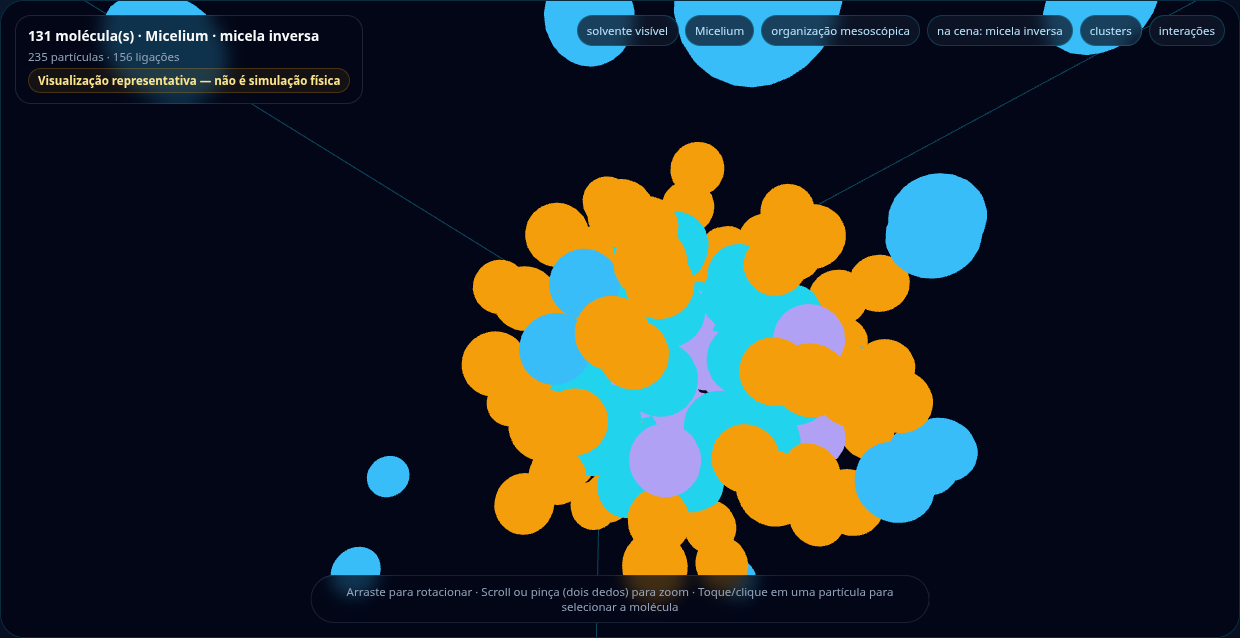
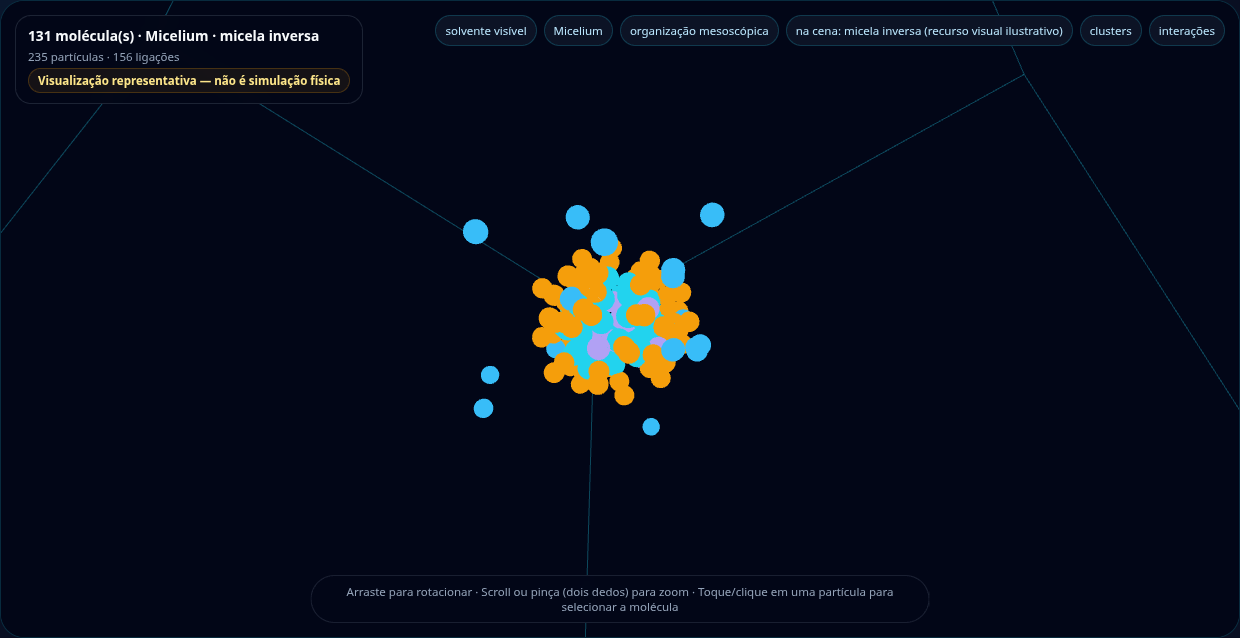
docs: exemplos documentados — rodada final, validação em vários trechos e capturas
Capturas com enquadramento automático, trilhas do card, cortes refeitos
(CTAB, vesícula, AOT) e captura do CTAB com zoom. Suítes: backend 2040,
frontend 87, host 28. Cinco morfologias estáveis em 8 trechos; CTAB e
vesícula passam com ressalvas (molde ilustrativo, escala reduzida, salicilato
cobrindo o bastão na vista padrão). Limitações atualizadas.

diff --git a/documentacao/validacao/WEB_LITE_V1.md b/documentacao/validacao/WEB_LITE_V1.md
@@ -245,16 +245,16 @@ Natureza de cada condição: **experimental** (medida no estudo), **protocolo** 
 
 | Suíte | Resultado |
 |---|---|
-| Backend completo (`bash scripts/testar_backend.sh`, rodado em 4 partes para caber no tempo do terminal) | **2033 aprovados**, 28 pulados, 1 falha esperada (xfail) — ver nota |
-| Só os exemplos (`tests/test_exemplos_*.py`) | 107 aprovados (66 + 22 de geometria + 19 de estabilidade e forma medida) |
-| Frontend (`bash scripts/testar_frontend.sh`) | **82 aprovados**, build sem erro |
+| Backend completo (`bash scripts/testar_backend.sh`, rodado em 4 partes para caber no tempo do terminal) | **2040 aprovados**, 28 pulados, 1 falha esperada (xfail) |
+| Só os exemplos (`tests/test_exemplos_*.py`) | 114 aprovados (66 + 22 de geometria + 26 de estabilidade e forma medida) |
+| Frontend (`bash scripts/testar_frontend.sh`) | **87 aprovados**, build sem erro |
 | Host (segredos, `.env`, produção) | **28 aprovados** |
 
-**Nota sobre o tempo:** numa das execuções, `test_tempo_por_trecho[dppc_bicamada_hidratacao]` falhou com 16,16 s (limite 15 s). A carga média da máquina era 5,8, com um Chrome aberto pedindo trechos ao mesmo backend. Todos os exemplos ficaram mais lentos ao mesmo tempo. Repetido logo depois, passou com 12,50 s, e o código desse caminho não mudou entre as execuções. Em máquina carregada, a bicamada pode passar do limite.
+**Nota sobre o tempo (rodada anterior):** numa das execuções, `test_tempo_por_trecho[dppc_bicamada_hidratacao]` falhou com 16,16 s (limite 15 s). A carga média da máquina era 5,8, com um Chrome aberto pedindo trechos ao mesmo backend. Todos os exemplos ficaram mais lentos ao mesmo tempo. Repetido logo depois, passou com 12,50 s, e o código desse caminho não mudou entre as execuções. Em máquina carregada, a bicamada pode passar do limite.
 
 Os testes de geometria medem as coordenadas do backend depois de 3 trechos, sem usar a previsão:
 - **SDS:** cabeças para fora.
-- **CTAB:** cabeças longe do maior eixo, salicilato na interface, agregado mais alongado que a esfera do SDS. Ser mais alongado que o SDS não basta para confirmar um cilindro (ver 13.4).
+- **CTAB:** cabeças longe do maior eixo, salicilato na interface, agregado mais alongado que a esfera do SDS.
 - **Bicamada DPPC:** ≥ 70 % das cabeças nas duas faces, com caudas no meio. Medido: 100 % em 1, 3 e 5 trechos.
 - **Vesícula DPPC:** cabeças internas < caudas < cabeças externas.
 - **AOT:** cabeças para dentro, água no centro.
@@ -262,8 +262,12 @@ Os testes de geometria medem as coordenadas do backend depois de 3 trechos, sem 
 
 Testes de estabilidade e de forma medida (`tests/test_exemplos_estabilidade.py`):
 - **AOT, 6 trechos seguidos:** em cada trecho, fração organizada > 50 % e rótulo "micela inversa". A tela mostra o card de cada trecho, não só o do 3º.
-- **CTAB, 6 trechos seguidos:** nenhum trecho mostra "micela cilíndrica/wormlike" sem que a forma medida sem a previsão seja "agregado alongado". Quando não há confirmação, a fração organizada é 0.
-- **Bicamada e vesícula:** o rótulo da cena só aparece quando a forma medida concorda (lamelar ou casca).
+- **CTAB, 6 trechos seguidos:** em cada trecho, "micela cilíndrica/wormlike" confirmada pela forma medida "agregado alongado", com fração > 50 %. Outro teste garante que o rótulo nunca aparece sem essa confirmação.
+- **Bicamada e vesícula, do 2º ao 5º trecho:** rótulo documentado, forma medida lamelar ou casca, fração > 50 %.
+- **Vesícula com cavidade:** nenhuma conta de DPPC a menos de 1,0 do centro; cabeças internas a ≥ 1,4.
+- **Agrupamento:** o raio entre moléculas cresce com √(nº de caudas). Lipídios de duas caudas a 2,8 de distância se agrupam; moléculas de uma cauda, não.
+- **Notas do catálogo:** o CTAB declara o molde visual, e a vesícula declara a cavidade e a escala.
+- **Pedidos comuns** (`test_organization_geometry.py`): cilindro e bicamada só são rotulados quando a forma medida confirma.
 - **Forma medida sem a previsão:** bicamada → "agregado lamelar (duas folhas)"; vesícula → "casca fechada de duas folhas"; SDS, CTAB e AOT nunca recebem rótulo de membrana.
 - **Coordenadas sintéticas:** bicamada e vesícula fechada são reconhecidas. Não são reconhecidas: taça aberta (incluindo taça de 80 % da esfera), estrela de seis direções, feixe estreito de 8 moléculas, micela, micela inversa, monocamada, orientação ao acaso e coordenada inválida (NaN).
 
@@ -271,21 +275,21 @@ Testes de estabilidade e de forma medida (`tests/test_exemplos_estabilidade.py`)
 
 | Exemplo | Partículas | Tempo por trecho |
 |---|---|---|
-| SDS | 236 | 5,71 s |
-| CTAB + salicilato | 273 | 9,55 s |
-| DPPC bicamada | 352 | 13,10 s |
-| DPPC vesícula | 352 | 11,55 s |
-| AOT | 235 | 8,78 s |
+| SDS | 236 | 4,29 s |
+| CTAB + salicilato | 273 | 6,67 s |
+| DPPC bicamada | 352 | 9,89 s |
+| DPPC vesícula | 352 | 8,23 s |
+| AOT | 235 | 6,59 s |
 
-Medido com a pilha de desenvolvimento ativa na mesma máquina. O SDS, sem mudança de código, também subiu (5,01 → 5,71 s). O limite do teste é 15 s; a bicamada é a mais próxima dele.
+Última execução, com a pilha de desenvolvimento ativa. O número de partículas não mudou com os moldes. Os tempos variam com a carga da máquina: na rodada anterior, a bicamada chegou a 13,1 s e, numa vez, a 16,2 s. O limite do teste é 15 s.
 
 ### 13.4 Conferência visual (navegador e cortes)
 
 Arquivos em `documentacao/validacao/exemplos_documentados/`, quatro por exemplo:
-- `*_cena.png`: captura da cena 3D no Chrome, cerca de 60 s depois de o card mostrar a mistura (2º trecho);
+- `*_cena.png`: captura da cena 3D no Chrome, cerca de 60 s depois de o card mostrar a mistura (2º trecho), com o enquadramento automático e sem zoom manual; `2_ctab_nasal_vermiforme_cena_zoom.png` é a mesma cena com zoom;
 - `*_cards.png`: cards Previsto e Observado no mesmo momento;
 - `*_trilha.txt`: o card Observado lido a cada 5 s por mais 150 s (3º a 5º trecho); só as mudanças são gravadas;
-- `*_corte.png`: corte 2D das coordenadas do backend após 3 trechos. Pedido no formato da tela; CTAB e AOT foram refeitos com o código final.
+- `*_corte.png`: corte 2D das coordenadas do backend após 3 trechos. Pedido no formato da tela; CTAB, vesícula e AOT foram refeitos com o código final.
 
 Um agente separado avaliou a primeira rodada de capturas. Correções feitas a partir dessa avaliação e da segunda rodada, cada uma com teste que falhou antes e passou depois:
 
@@ -299,44 +303,50 @@ Um agente separado avaliou a primeira rodada de capturas. Correções feitas a p
    - **Lamelar:** cadeias alinhadas (S ≥ 0,75); cabeças nas duas faces e mais longe do plano médio que a própria cauda; caudas espalhadas no plano (variância lateral > 2 × a normal).
    - **Casca fechada:** caudas numa casca oca; cabeças dentro e fora; cadeias radiais; nenhuma abertura sem caudas maior que 45°.
    - **Medido nas cenas:** bicamada com S = 0,94–0,98 e variância lateral 7,4 × a normal; vesícula com abertura máxima de 41°; SDS, CTAB e AOT com S ≤ 0,54.
-6. **Revisão independente do branch (crítico): o CTAB aparecia como "micela cilíndrica/wormlike" 100 % organizado, com a forma medida "aproximadamente esférico".**
+6. **Revisão independente do branch (crítico): o CTAB aparecia como "micela cilíndrica/wormlike" 100 % organizado, com a forma medida "aproximadamente esférico".** (Estado intermediário; o item 7 substitui o resultado do CTAB e o escopo da regra.)
    - **Regra nova:** nos exemplos documentados, cilindro, bicamada e vesícula só recebem o rótulo da cena quando a forma medida sem a previsão concorda (alongado, lamelar ou casca). Sem isso, o agregado fica "agregado em reorganização" e não conta na fração organizada.
    - **Efeito no CTAB:** passa a 0 % em todos os trechos.
    - **Reversão:** um espaçamento axial tentado antes foi revertido. Ele só espalhava os centros de cauda, a mesma grandeza que o critério mede.
    - **Detector endurecido** a partir de achados importantes da mesma revisão: um feixe estreito virava lamelar, e uma taça de 80 % ou uma estrela viravam casca.
    - **Pedidos sem exemplo** mantêm o comportamento anterior (ver 13.5).
 
-Card Observado nas capturas finais (rótulo · fração · forma medida), com a trilha até ~250 s:
+7. **Rodada final (autorizada pelo autor).**
+   - **CTAB, molde visual cilíndrico exclusivo do exemplo:** cabeças numa hélice de ângulo áureo na superfície, caudas apontando para o eixo, 0,33 de comprimento por molécula. O salicilato continua na interface. O molde está declarado na nota do card como recurso ilustrativo, com a densidade não real.
+   - **Vesícula com cavidade:** as cabeças internas ficam a 1,6 do centro. O agrupamento do analisador usava o raio de uma cauda (2,15) e partia a casca em fragmentos de 4–5 moléculas. O raio entre moléculas agora cresce com √(nº de caudas): 3,04 entre lipídios de duas caudas, e moléculas de uma cauda não mudam. A vesícula inteira (36) vira um agregado.
+   - **Todo pedido:** cilindro, bicamada e vesícula só recebem o rótulo da previsão quando a forma medida sem a previsão confirma. Sem confirmação, com orientação e núcleo bons, o rótulo é "agregado orientado (forma prevista não confirmada)". CMC, CPP e a previsão não mudam. O teste geral que exigia o rótulo sem confirmação foi corrigido.
+   - **Tela 3D:** a câmera enquadra o maior agregado quando chega uma mistura nova e orbita em volta dele. Uma verificação de UI por agente separado, com calibração plantada detectada, achou a órbita presa à origem; corrigido com teste. O chip "na cena" e a linha "Rótulo dos agregados na cena" acrescentam "(recurso visual ilustrativo)" quando a forma confirmada vem do molde de um exemplo documentado.
+
+**Validação em vários trechos** (sonda de 8 trechos no backend e trilha do card no navegador até ~265 s):
 
 | Exemplo | Rótulo na cena | Fração organizada | Forma medida sem a previsão |
 |---|---|---|---|
-| SDS | micela esférica | 61,5 % → 82,7 % (aos 121 s) | pré-agregado hidrofóbico → agregado orientado |
-| CTAB + salicilato | agregado em reorganização (cilindro não confirmado) | 0,0 % em toda a trilha | agregado aproximadamente esférico |
-| DPPC bicamada | bicamada plana/lamelar | 100,0 % em toda a trilha | agregado lamelar (duas folhas) |
-| DPPC vesícula | vesícula/bicamada fechada | 66,7 % → 63,9 % (aos 200 s) | casca fechada de duas folhas |
-| AOT | micela inversa | 100,0 % em toda a trilha | agregado aproximadamente esférico |
+| SDS | micela esférica (calculada) | 0 % no 1º trecho; 62–90 % do 2º ao 8º | pré-agregado → agregado orientado |
+| CTAB + salicilato | micela cilíndrica/wormlike (recurso visual ilustrativo) | 100 % nos 8 trechos | agregado alongado (λ3/λ2 ≈ 14 em variância, ≈ 3,7 em eixos) |
+| DPPC bicamada | bicamada plana/lamelar (recurso visual ilustrativo) | 100 % nos 8 trechos | agregado lamelar (duas folhas) |
+| DPPC vesícula | vesícula/bicamada fechada (recurso visual ilustrativo) | 100 % nos 8 trechos (36 moléculas) | casca fechada de duas folhas |
+| AOT | micela inversa (recurso visual ilustrativo) | 100 % nos 8 trechos | agregado aproximadamente esférico |
 
 **O que a cena confirma, exemplo por exemplo:**
 
-| Exemplo | Funciona visualmente? | Evidência e ressalva |
+| Exemplo | Validação visual | Evidência e ressalva |
 |---|---|---|
-| SDS | sim, como várias micelas pequenas | Cabeças para fora. A forma é calculada (previsão validada). Vários agregados de 6–19 moléculas, nem todos organizados. |
-| CTAB + salicilato | **não** (cilindro não confirmado) | Salicilato na interface e cabeças longe do maior eixo, mas o agregado é um bloco só levemente alongado, no navegador e no corte. A forma medida diz "aproximadamente esférico", e o card mostra "agregado em reorganização" com 0 %, sem afirmar o cilindro. |
-| DPPC bicamada | sim, com forma imposta | Duas folhas, caudas no meio, medida como lamelar. A forma vem do molde visual, não de auto-organização. |
-| DPPC vesícula | com limitações sérias | Corte e forma medida mostram casca de duas folhas, mas:<br>• não há lúmen: as cabeças internas ficam a 0,9 do centro, e o corte parece uma bola de cabeças com coroa radial;<br>• a folha externa é esparsa, e só 24 das 36 moléculas formam o agregado medido (≈ 64–67 %, 0 % no 1º trecho);<br>• na captura do navegador, o agregado ficou fora do enquadramento;<br>• a forma vem do molde. |
-| AOT | sim | Uma micela inversa: cabeças e água no centro, caudas para fora, estável em todos os trechos. |
+| SDS | passa | Várias micelas pequenas, com cabeças para fora. É a única forma calculada pelo motor. |
+| CTAB + salicilato | passa, com ressalva | O corte mostra um bastão com cabeças nas duas superfícies, caudas para o eixo e salicilato na interface. No navegador, o agregado é uma faixa alongada, mas o salicilato e os íons cobrem boa parte dela; com zoom se lê melhor. A forma é imposta pelo molde. |
+| DPPC bicamada | passa | Placa de duas folhas com as caudas no meio, enquadrada. A forma é imposta pelo molde. |
+| DPPC vesícula | passa, com ressalva | Agora enquadrada. Casca radial em volta de uma cavidade pequena, com a folha externa esparsa (aspecto de estrela no corte). A forma é imposta pelo molde. |
+| AOT | passa | Gota compacta: água e cabeças no centro, caudas para fora. |
 
 ### 13.5 Limitações e pendências
 
 - **Pendência científica do SDS com sal (não corrigida).** O ajuste de sal do motor faz o SDS virar "micela cilíndrica" a partir de 0,08 mol/L de força iônica. A literatura situa a transição esfera→bastão acima de cerca de 0,2–0,3 mol/L de NaCl. Por isso o exemplo fica limitado a ≤ 0,07 mol/L, como limite técnico (spec §10).
-- **CTAB: o exemplo não forma um cilindro visível (não corrigido).** O critério das caudas usa razão de variâncias 1,6 (~1,26 em eixos), e a forma medida sem a previsão não confirma alongamento. Com 27 CTAB visuais, um bastão longo ficaria oco. O card agora mostra "agregado em reorganização" com 0 %. O rótulo é honesto quanto a não haver cilindro, mas impreciso: o agregado está estável, não se reorganizando. Para o exemplo funcionar, opções para o autor: mais moléculas visuais no exemplo (cena mais pesada, hoje 27 de um teto de 240) ou um molde visual de cilindro, como o das membranas (forma imposta, declarada).
-- **Confirmação da forma medida só nos exemplos (decisão do autor).** Em pedidos comuns com previsão de cilindro ou bicamada, o rótulo continua vindo só do critério geométrico da previsão. Aplicar lá a mesma exigência quebra dois testes de `test_organization_geometry.py`: agregados de 20, 10 e 9 moléculas deixam de aparecer como "micela cilíndrica", e o mesmo ocorre na bicamada. O motor geral provavelmente também mostra essas formas sem confirmação.
-- **Vesícula mínima e sem lúmen.** Com 36 lipídios visuais, a folha externa fica esparsa: no corte, as cadeias aparecem separadas, com aspecto de estrela, e só 24 moléculas entram no agregado medido. As cabeças internas ficam a 0,9 do centro, sem a cavidade aquosa que define uma vesícula. Uma vesícula real de 60–100 nm tem milhares de lipídios. A cena demonstra a ordem das camadas, não a densidade da casca (decisão do autor: documentar, sem aumentar o número de moléculas).
-- **Membranas impostas.** Bicamada e vesícula vêm do molde visual. O detector de membrana confirma a geometria da cena, não que ela se formaria sozinha.
+- **Formas impostas por molde.** Cilindro do CTAB, bicamada e vesícula vêm de moldes visuais exclusivos dos exemplos, declarados nas notas e marcados "(recurso visual ilustrativo)" na cena. O detector confirma a geometria mostrada, não que ela se formaria sozinha. A micela inversa do AOT é guiada por forças visuais (núcleo único, água no centro), também declaradas.
+- **Escala molecular simplificada.** O CTAB tem 27 moléculas visuais esticadas num trecho de ~9 unidades; uma micela vermiforme real tem centenas de nanômetros, e a densidade na cena não é a real. A vesícula tem 36 lipídios, com a folha externa esparsa e uma cavidade pequena; uma vesícula real de 60–100 nm tem milhares de lipídios. Nenhum dos dois ganhou partículas.
+- **CTAB no navegador.** O salicilato (5 por CTAB na mistura; 1:1 na interface, o resto livre) e os íons cobrem boa parte do bastão na vista padrão. O alongamento é claro no corte 2D e com zoom.
+- **Agrupamento por número de caudas.** O raio que liga moléculas num agregado agora depende do número de caudas: 2,15 com uma cauda, como antes, e 3,04 com duas. Isso vale para qualquer pedido com moléculas de duas caudas.
+- **Rótulo novo nos pedidos comuns.** Um agregado orientado e compacto cuja forma medida não confirma cilindro, bicamada ou vesícula aparece como "agregado orientado (forma prevista não confirmada)" e não conta na fração organizada. Em pedidos que antes mostravam essas formas, a fração organizada pode cair.
 - **Forma medida, classificação geral (menor, não corrigido).** Fora das membranas, o classificador geral ainda recebe orientação e núcleo calculados com o molde previsto. Só o detector de membrana é totalmente independente da previsão.
-- **Outros menores da revisão (não corrigidos):**
-  - o chip "na cena: …" não diz que a forma é de demonstração; isso aparece só no card Previsto;
+- **Outros menores (não corrigidos):**
   - a forma medida dominante é escolhida pelo número de agregados, não de moléculas: no SDS, três pré-agregados vencem a micela de 19;
-  - os números da sonda de 8 trechos vêm de scripts fora do repositório (`.runtime/sonda/`).
-- **Enquadramento da câmera.** Na captura da vesícula, o agregado fica fora do quadro, e na do CTAB a câmera está colada no agregado. Os cortes 2D são a evidência geométrica confiável.
+  - os números da sonda de 8 trechos vêm de scripts fora do repositório (`.runtime/sonda/`);
+  - o enquadramento automático acontece uma vez por mistura; trechos seguintes mantêm a câmera do usuário.
 - **Ainda aberto da tarefa 8 (menor):** o w0 no cartão do catálogo aparece sem formato pt-BR (10.5 em vez de 10,5).
